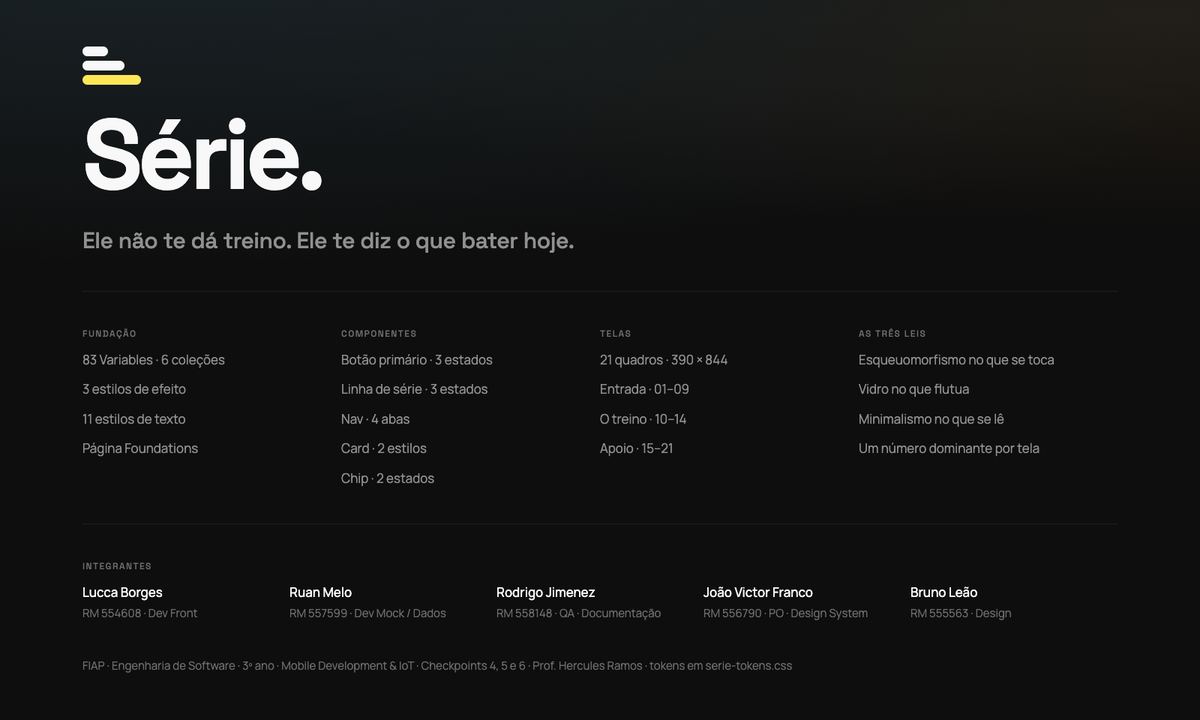
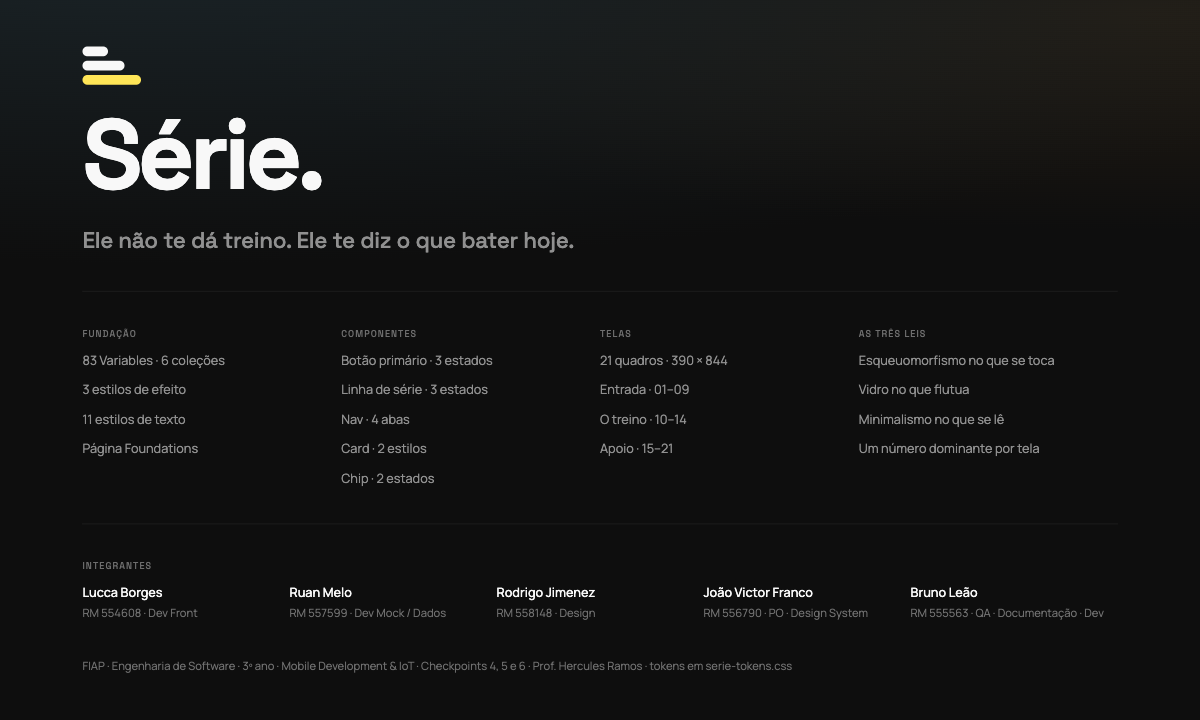
Componentes das telas de apoio e capa com os papéis certos
Barras de carga e de volume, linha de alternativa, linha de ajuste e a tela de
aba, nos tokens do design system. A capa do Figma trazia Rodrigo e Bruno com os
papéis trocados: Rodrigo é Design, Bruno é QA · Documentação · Dev.

diff --git a/src/components/linha-de-ajuste.tsx b/src/components/linha-de-ajuste.tsx
@@ -1,0 +1,59 @@
+import type { ReactNode } from 'react';
+import { Pressable, StyleSheet, View } from 'react-native';
+import { Chevron } from './icones';
+import { Texto } from './texto';
+import { hit, space, surface } from '@/theme/tokens';
+
+/**
+ * Linha "rótulo ······ valor" das listas de apoio (Perfil, recordes do Progresso).
+ *
+ * ⚠ Só ganha chevron e toque quando tem `onPress`: linha só-leitura com cara de botão
+ * é afordância que não leva a lugar nenhum. Altura de `hit.row` (56) — mão suada.
+ */
+export function LinhaDeAjuste({
+  rotulo, valor, onPress, corDoValor, ultima = false, acessorio,
+}: {
+  rotulo: string;
+  valor?: string;
+  onPress?: () => void;
+  corDoValor?: string;
+  ultima?: boolean;
+  acessorio?: ReactNode;
+}) {
+  const conteudo = (
+    <>
+      <Texto papel="corpo" numberOfLines={1} style={valor === undefined ? estilos.rotulo : estilos.rotuloComValor}>
+        {rotulo}
+      </Texto>
+      {valor !== undefined && (
+        <Texto papel="desc" cor={corDoValor} numberOfLines={2} style={estilos.valor}>{valor}</Texto>
+      )}
+      {acessorio}
+      {onPress && <Chevron />}
+    </>
+  );
+
+  if (!onPress) return <View style={[estilos.linha, !ultima && estilos.divisor]}>{conteudo}</View>;
+  return (
+    <Pressable
+      onPress={onPress}
+      accessibilityRole="button"
+      accessibilityLabel={valor ? `${rotulo}, ${valor}` : rotulo}
+      style={({ pressed }) => [estilos.linha, !ultima && estilos.divisor, pressed && estilos.pressionada]}
+    >
+      {conteudo}
+    </Pressable>
+  );
+}
+
+const estilos = StyleSheet.create({
+  linha: { flexDirection: 'row', alignItems: 'center', minHeight: hit.row, gap: space.s3 },
+  divisor: { borderBottomWidth: 1, borderBottomColor: surface.line },
+  rotulo: { flex: 1 },
+  // Com valor, o rótulo é o que diz o que é a linha: fica inteiro (até 65%) e quem cede é o
+  // VALOR, em até 2 linhas à direita. Antes, "2,5 kg · 5 kg pernas · 2 kg halter" deixava só
+  // "Incremento de …" a 390 px. Sem `flex: 0` aqui: no navegador ele vira `0 1 0%` e encolhe.
+  rotuloComValor: { flexShrink: 0, maxWidth: '65%' },
+  valor: { flex: 1, textAlign: 'right' },
+  pressionada: { backgroundColor: surface.rowActive },
+});

diff --git a/src/components/barra-de-volume.tsx b/src/components/barra-de-volume.tsx
@@ -1,0 +1,48 @@
+import { StyleSheet, View } from 'react-native';
+import { Texto } from './texto';
+import type { EstadoDeVolume } from '@/domain/volume';
+import { font, neutral, radius, space, surface } from '@/theme/tokens';
+
+/**
+ * Uma barra do `CAR-4`: séries do grupo na semana contra a faixa 10–20.
+ *
+ * ⚠ Abaixo da faixa a barra fica APAGADA e o número em negrito — não vermelha. Volume
+ * baixo é informação, não alarme (mesma régua da `CAR-3.1`); e cor no app é só recorde.
+ * O risquinho marca o piso da faixa: dá para ver o quanto falta sem ler número.
+ */
+export function BarraDeVolume({
+  rotulo, series, estado, escala, piso,
+}: { rotulo: string; series: number; estado: EstadoDeVolume; escala: number; piso: number }) {
+  const abaixo = estado === 'abaixo';
+  const fracao = escala > 0 ? Math.min(1, series / escala) : 0;
+  return (
+    <View
+      style={estilos.raiz}
+      accessible
+      accessibilityLabel={`${rotulo}: ${series} séries${abaixo ? ', abaixo da faixa' : ''}`}
+    >
+      <View style={estilos.topo}>
+        <Texto papel="corpo" cor={abaixo ? neutral.n200 : neutral.n100}>{rotulo}</Texto>
+        <Texto papel={abaixo ? 'corpo' : 'desc'} style={abaixo && estilos.numeroAbaixo}>
+          {series}
+        </Texto>
+      </View>
+      <View style={estilos.trilho}>
+        <View style={[estilos.cheio, abaixo && estilos.cheioAbaixo, { width: `${fracao * 100}%` }]} />
+        <View style={[estilos.piso, { left: `${(piso / escala) * 100}%` }]} />
+      </View>
+    </View>
+  );
+}
+
+const ALTURA = 8;
+
+const estilos = StyleSheet.create({
+  raiz: { gap: space.s2 },
+  topo: { flexDirection: 'row', justifyContent: 'space-between', alignItems: 'baseline' },
+  numeroAbaixo: { fontFamily: font.textBold, color: neutral.n100 },
+  trilho: { height: ALTURA, borderRadius: radius.full, backgroundColor: neutral.n800, overflow: 'hidden' },
+  cheio: { height: ALTURA, borderRadius: radius.full, backgroundColor: neutral.n100 },
+  cheioAbaixo: { backgroundColor: neutral.n500 },
+  piso: { position: 'absolute', top: 0, bottom: 0, width: 2, backgroundColor: surface.line2 },
+});

diff --git a/src/components/barras-de-carga.tsx b/src/components/barras-de-carga.tsx
@@ -1,0 +1,49 @@
+import { StyleSheet, View } from 'react-native';
+import { Texto } from './texto';
+import { formatarKg } from '@/lib/formato';
+import { accent, neutral, radius, space } from '@/theme/tokens';
+
+/** Do mais antigo ao mais novo: o cinza clareia conforme chega em hoje. */
+const TONS = [neutral.n700, neutral.n700, neutral.n600, neutral.n500, neutral.n400, neutral.n300] as const;
+const ALTURA = 104;
+
+/**
+ * As barras da tela 15: um valor por sessão, mais antiga à esquerda.
+ * ⚠ Ouro só na última barra, e só se ela for recorde (`destacarUltima`) — cor rara é cor
+ * que significa. Barra alta sem recorde continua cinza.
+ */
+export function BarrasDeCarga({
+  valores, destacarUltima, sufixo = '',
+}: { valores: number[]; destacarUltima: boolean; sufixo?: string }) {
+  const maior = Math.max(1, ...valores);
+  return (
+    <View style={estilos.linha}>
+      {valores.map((v, i) => {
+        const ultima = i === valores.length - 1;
+        const ouro = ultima && destacarUltima;
+        const tom = TONS[TONS.length - valores.length + i] ?? neutral.n300;
+        return (
+          <View key={i} style={estilos.coluna}>
+            <View style={estilos.trilho}>
+              <View
+                style={[
+                  estilos.barra,
+                  // Piso de 12%: carga baixa ainda é uma sessão que aconteceu.
+                  { height: `${Math.max(12, (v / maior) * 100)}%`, backgroundColor: ouro ? accent.signal : tom },
+                ]}
+              />
+            </View>
+            <Texto papel="nav" cor={ouro ? accent.signal : neutral.n400}>{formatarKg(v)}{sufixo}</Texto>
+          </View>
+        );
+      })}
+    </View>
+  );
+}
+
+const estilos = StyleSheet.create({
+  linha: { flexDirection: 'row', gap: space.s5 },
+  coluna: { flex: 1, alignItems: 'center', gap: space.s2 },
+  trilho: { height: ALTURA, alignSelf: 'stretch', justifyContent: 'flex-end' },
+  barra: { borderRadius: radius.sm / 2 },
+});

diff --git a/src/components/voltar.tsx b/src/components/voltar.tsx
@@ -1,4 +1,5 @@
 import { Pressable, StyleSheet, View } from 'react-native';
+import { Texto } from './texto';
 import { hit, neutral, space } from '@/theme/tokens';
 
 /**
@@ -6,17 +7,21 @@ import { hit, neutral, space } from '@/theme/tokens';
  * vertical 15, chevron 7 × 14 no canto esquerdo. O chevron sai de duas bordas
  * de um quadrado rotacionado — zero dep de ícone, e o alvo de toque respeita
  * o piso da `CAR-11.3` (44 pt).
+ *
+ * `rotulo` põe o texto DENTRO do mesmo botão (tela 15). Embrulhar o <Voltar> num
+ * Pressable para o texto ser tocável vira <button> dentro de <button> na web.
  */
-export function Voltar({ onPress }: { onPress: () => void }) {
+export function Voltar({ onPress, rotulo }: { onPress: () => void; rotulo?: string }) {
   return (
     <Pressable
       onPress={onPress}
       accessibilityRole="button"
       accessibilityLabel="Voltar"
       hitSlop={space.s3}
-      style={estilos.container}
+      style={[estilos.container, rotulo !== undefined && estilos.comRotulo]}
     >
       <View style={estilos.chevron} />
+      {rotulo !== undefined && <Texto papel="eyebrow">{rotulo}</Texto>}
     </Pressable>
   );
 }
@@ -28,6 +33,7 @@ const estilos = StyleSheet.create({
     paddingVertical: 15,
     justifyContent: 'center',
   },
+  comRotulo: { flexDirection: 'row', alignItems: 'center', gap: space.s3 },
   // Quadrado com border esquerda + inferior, girado 45º = chevron para a esquerda.
   chevron: {
     width: 10,

diff --git a/src/components/tela-de-aba.tsx b/src/components/tela-de-aba.tsx
@@ -1,0 +1,38 @@
+import type { ReactNode } from 'react';
+import { ScrollView, StyleSheet, View } from 'react-native';
+import { SafeAreaView } from 'react-native-safe-area-context';
+import { Fundo } from './fundo';
+import { Nav, type AbaDaNav } from './nav';
+import { Texto } from './texto';
+import { space } from '@/theme/tokens';
+
+/**
+ * Moldura das telas de aba (17 Treinos, 20 Progresso, 21 Perfil): título grande, conteúdo
+ * que rola e a <Nav> colada embaixo.
+ *
+ * Não usa <Tela> porque ela põe margem lateral na área segura inteira — e a nav é de
+ * borda a borda. Mesmo arranjo da tela 10 (Hoje).
+ */
+export function TelaDeAba({
+  titulo, aba, children, rodape,
+}: { titulo?: string; aba: AbaDaNav; children: ReactNode; rodape?: ReactNode }) {
+  return (
+    <View style={estilos.raiz}>
+      <Fundo />
+      <SafeAreaView style={estilos.seguro}>
+        <ScrollView contentContainerStyle={estilos.conteudo} showsVerticalScrollIndicator={false}>
+          {titulo && <Texto papel="h1" accessibilityRole="header">{titulo}</Texto>}
+          {children}
+        </ScrollView>
+        {rodape}
+        <Nav ativa={aba} />
+      </SafeAreaView>
+    </View>
+  );
+}
+
+const estilos = StyleSheet.create({
+  raiz: { flex: 1 },
+  seguro: { flex: 1 },
+  conteudo: { flexGrow: 1, paddingHorizontal: space.s5, paddingTop: space.s6, paddingBottom: space.s5, gap: space.s5 },
+});

diff --git a/src/components/linha-de-alternativa.tsx b/src/components/linha-de-alternativa.tsx
@@ -1,0 +1,38 @@
+import { Pressable, StyleSheet, View } from 'react-native';
+import { Chevron } from './icones';
+import { Texto } from './texto';
+import { hit, neutral, space, surface } from '@/theme/tokens';
+
+/**
+ * Uma variação oferecida na troca (tela 16 · `CAR-9`): nome + o porquê dela caber
+ * ("Mesmo padrão · sugestão: 47,5 kg"). A linha inteira é o alvo de toque (`CAR-11.3`).
+ */
+export function LinhaDeAlternativa({
+  nome, detalhe, onPress, ultima = false,
+}: { nome: string; detalhe: string; onPress: () => void; ultima?: boolean }) {
+  return (
+    <Pressable
+      onPress={onPress}
+      accessibilityRole="button"
+      accessibilityLabel={`Trocar por ${nome}`}
+      style={({ pressed }) => [estilos.linha, !ultima && estilos.divisor, pressed && estilos.pressionada]}
+    >
+      <View style={estilos.texto}>
+        <Texto papel="h2" numberOfLines={1}>{nome}</Texto>
+        <Texto papel="desc" cor={neutral.n300} numberOfLines={1}>{detalhe}</Texto>
+      </View>
+      <Chevron tamanho={20} />
+    </Pressable>
+  );
+}
+
+const estilos = StyleSheet.create({
+  linha: {
+    minHeight: hit.row + space.s4,
+    flexDirection: 'row', alignItems: 'center', gap: space.s3,
+    paddingVertical: space.s3,
+  },
+  divisor: { borderBottomWidth: 1, borderBottomColor: surface.line },
+  pressionada: { opacity: 0.7 },
+  texto: { flex: 1, gap: 2 },
+});

diff --git a/docs/telas/capa-figma.html b/docs/telas/capa-figma.html
@@ -130,7 +130,7 @@
       </div>
       <div class="coluna pessoa">
         <div class="p-nome">Rodrigo Jimenez</div>
-        <div class="p-papel">RM 558148 · QA · Documentação</div>
+        <div class="p-papel">RM 558148 · Design</div>
       </div>
       <div class="coluna pessoa">
         <div class="p-nome">João Victor Franco</div>
@@ -138,7 +138,7 @@
       </div>
       <div class="coluna pessoa">
         <div class="p-nome">Bruno Leão</div>
-        <div class="p-papel">RM 555563 · Design</div>
+        <div class="p-papel">RM 555563 · QA · Documentação · Dev</div>
       </div>
     </div>
   </div>
